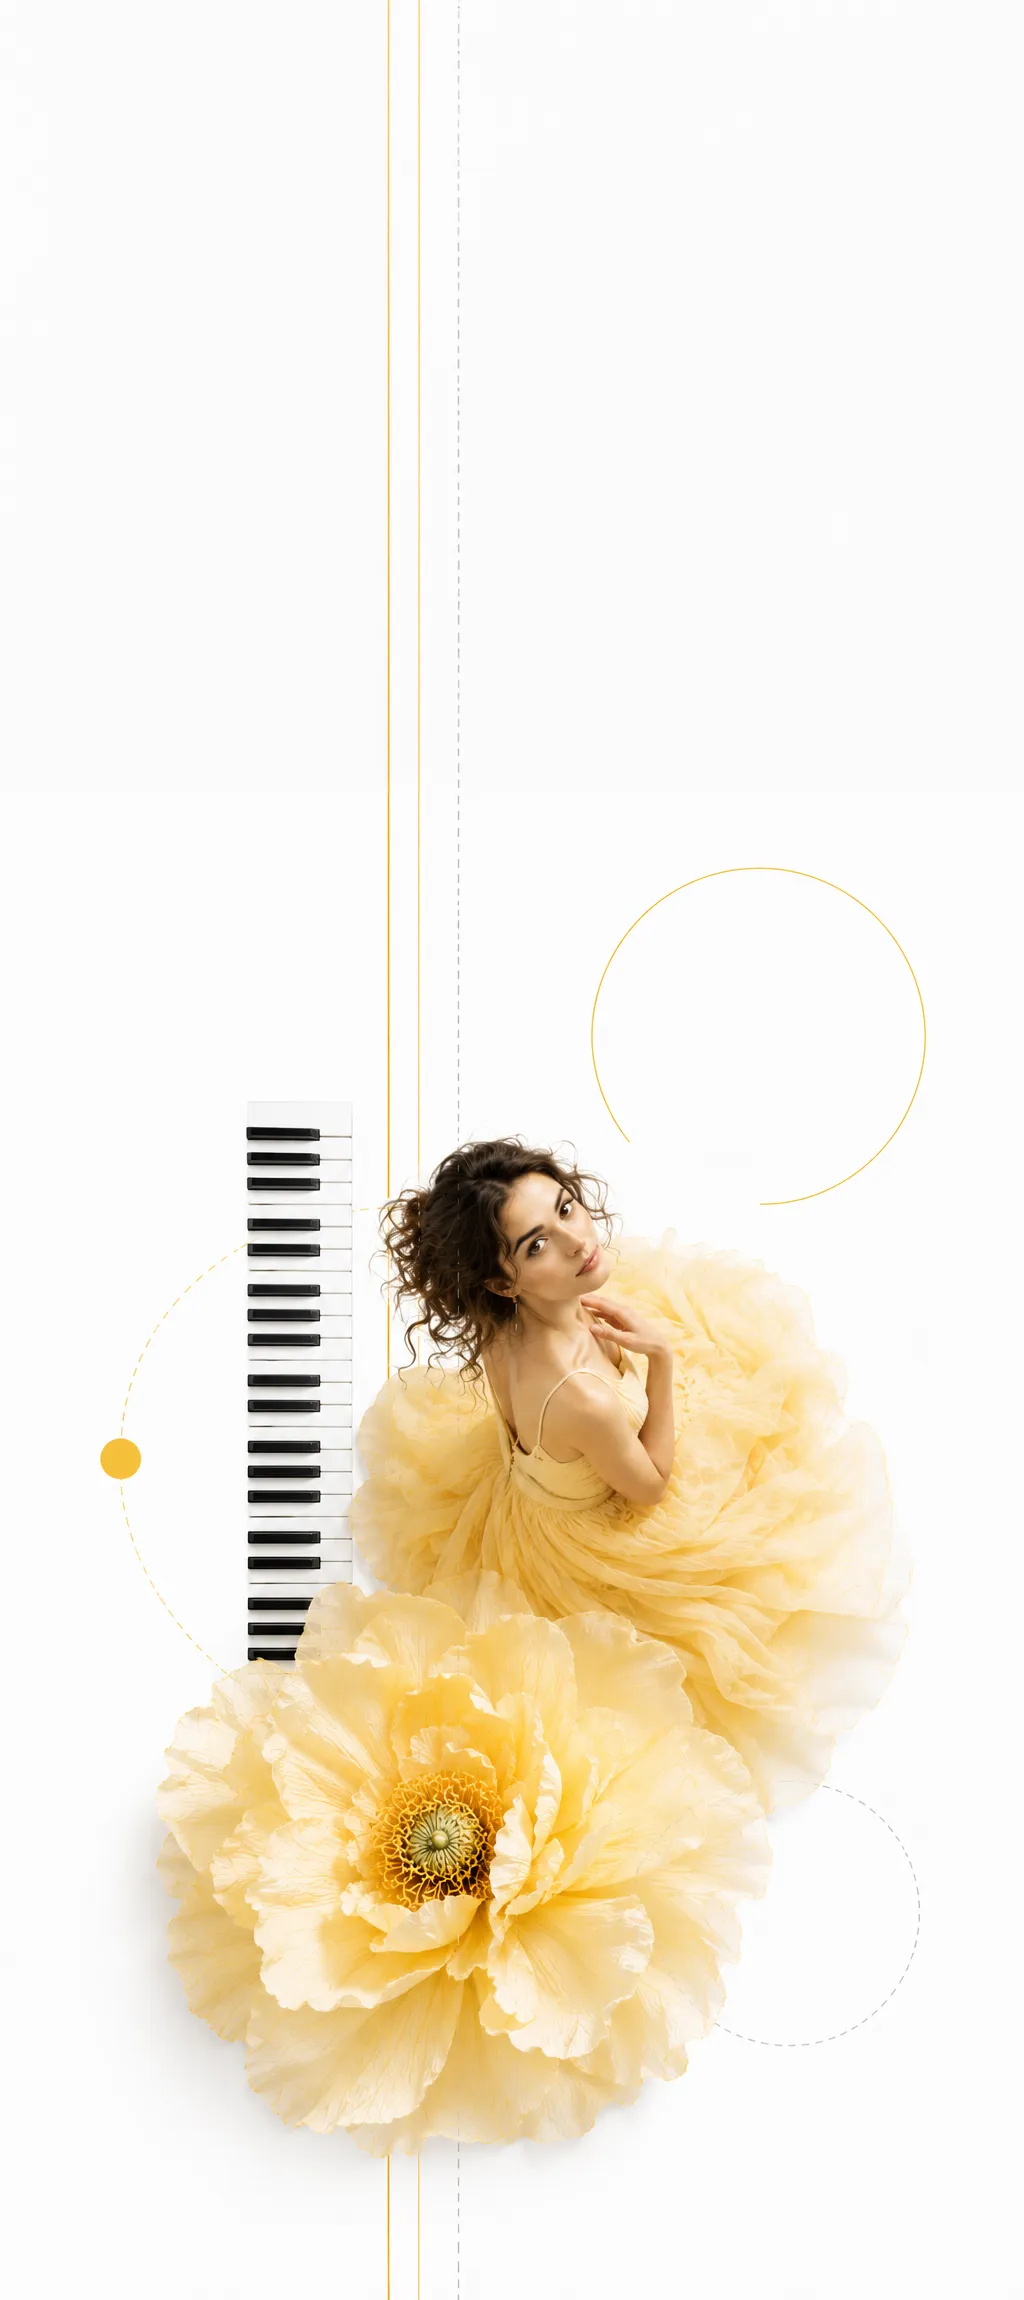
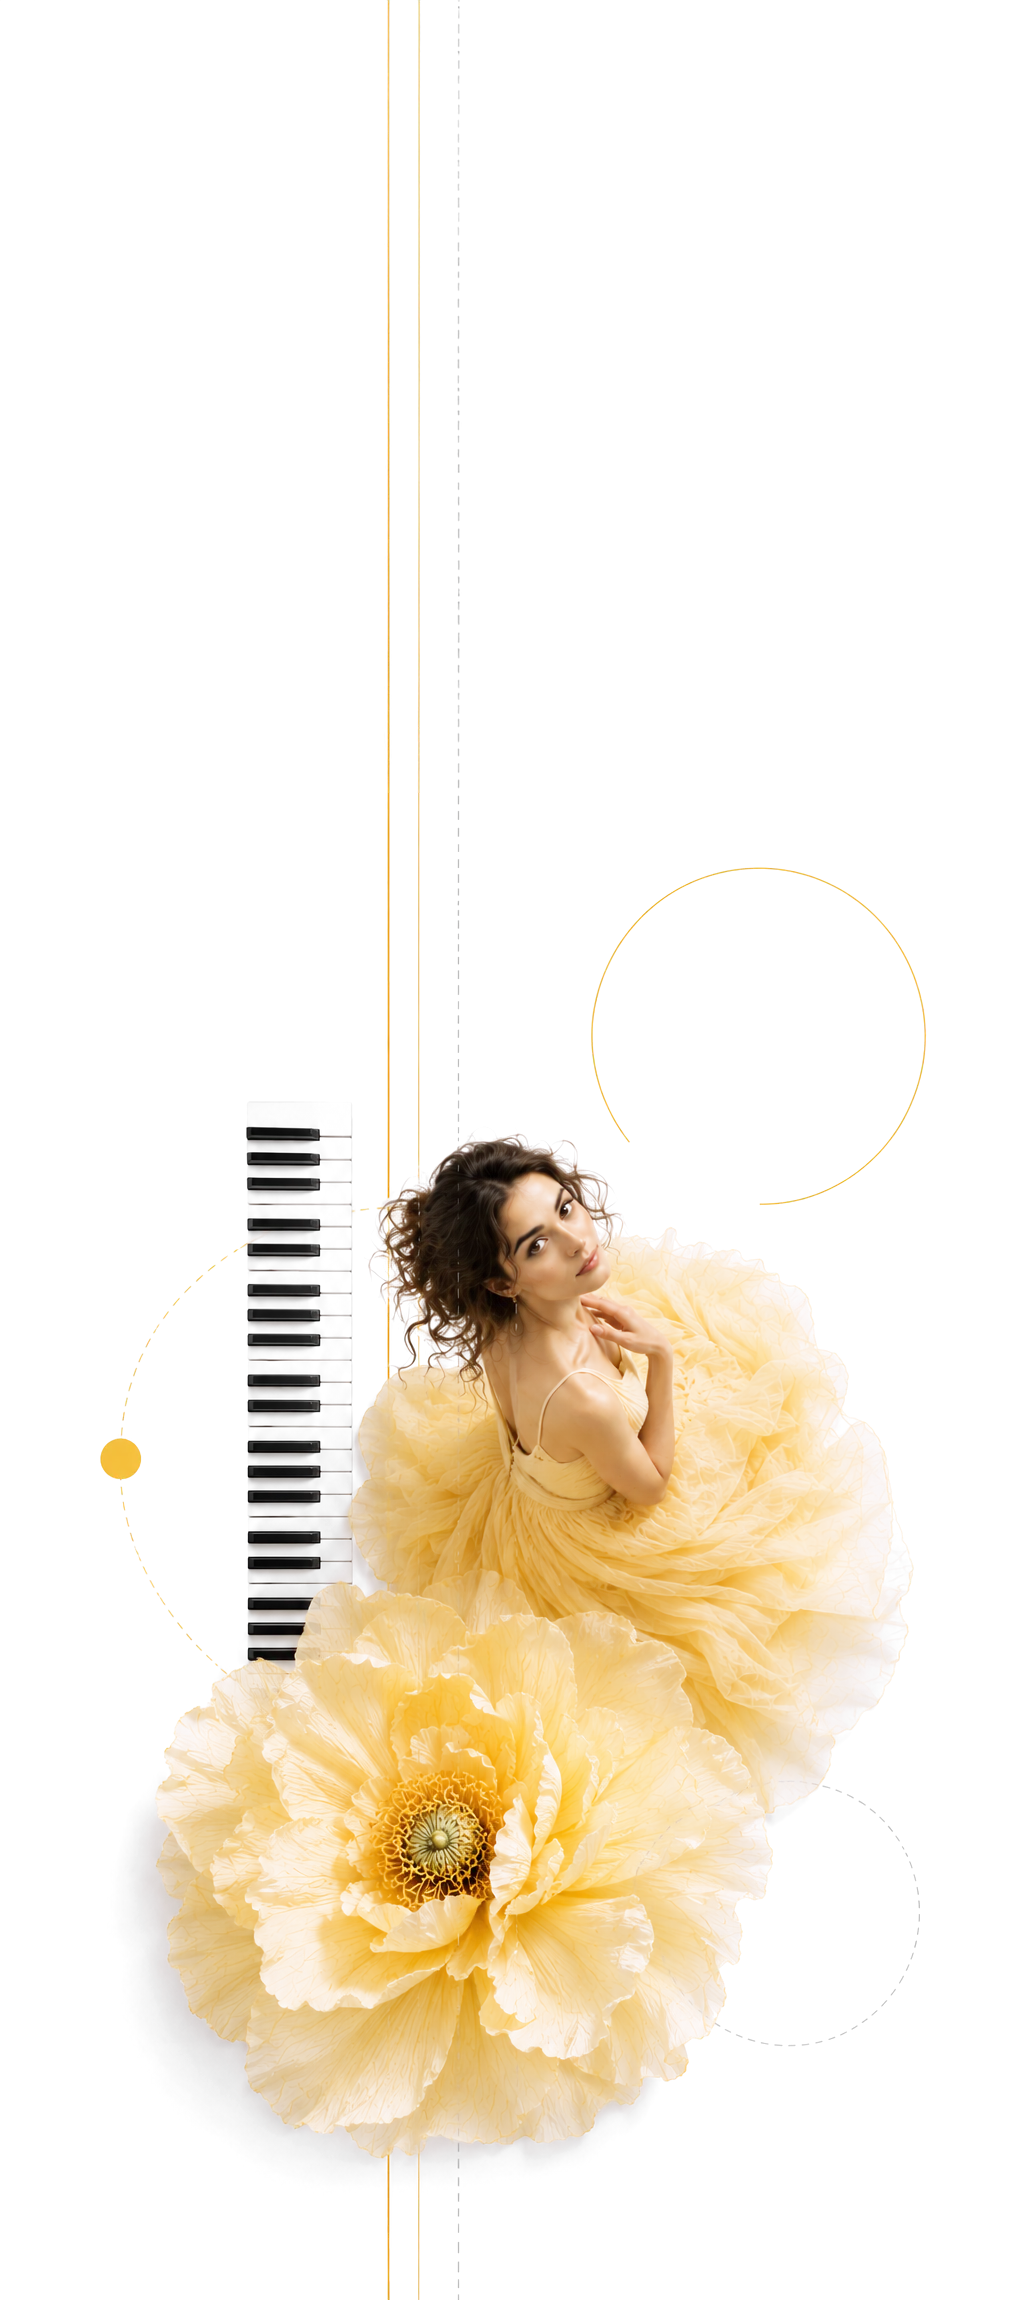
Square buttons, slimmer running score, transparent concert images blended into the page
Claude-Session: https://claude.ai/code/session_01NFy97beAv5LW8gohsA2YGd

Changed region(s): [[0.375, 0.3396, 0.4062, 0.4322], [0.375, 0.957, 0.4062, 1.0]]

diff --git a/src/styles.css b/src/styles.css
@@ -272,7 +272,7 @@ h1, h2, h3, h4,
   --c: var(--red);
   position: relative; display: block; text-decoration: none; aspect-ratio: 3 / 4; max-height: 74svh; justify-self: center; width: 100%; max-width: 440px;
 }
-.hero__next-media { position: absolute; inset: 0; overflow: hidden; border-radius: 999px 999px 0 0; background: #fff; }
+.hero__next-media { position: absolute; inset: 0; overflow: hidden; -webkit-mask-image: linear-gradient(to bottom, #000 70%, transparent 98%); mask-image: linear-gradient(to bottom, #000 70%, transparent 98%); }
 .hero__next-media img { width: 100%; height: 100%; object-fit: cover; object-position: center 20%; transform: scale(1.15); }
 .hero__next-badge {
   position: absolute; top: 8%; inset-inline-start: -8%; z-index: 2;
@@ -312,10 +312,10 @@ h1, h2, h3, h4,
 /* =========================================================
    MARQUEE
    ========================================================= */
-.score { margin: 0; position: relative; padding: clamp(28px, 4vw, 48px) 0 18px; border-block: 1px solid var(--line); background: var(--paper-2); overflow: hidden; direction: ltr; }
+.score { margin: 0; position: relative; padding: 14px 0 10px; border-block: 1px solid var(--line); background: var(--paper-2); overflow: hidden; direction: ltr; }
 .score__viewport { position: relative; overflow: hidden; -webkit-mask-image: linear-gradient(90deg, transparent, #000 8%, #000 92%, transparent); mask-image: linear-gradient(90deg, transparent, #000 8%, #000 92%, transparent); }
 .score__track { display: flex; width: max-content; will-change: transform; }
-.score__svg { height: clamp(150px, 18vw, 230px); width: auto; flex: none; overflow: visible; }
+.score__svg { height: clamp(64px, 6.5vw, 92px); width: auto; flex: none; overflow: visible; }
 .score__svg .sl { stroke: var(--ink); stroke-opacity: .35; stroke-width: 1; }
 .score__svg .ll, .score__svg .stem { stroke: var(--ink); stroke-width: 1.3; }
 .score__svg .bar { stroke: var(--ink); stroke-opacity: .55; stroke-width: 1.2; }
@@ -339,7 +339,7 @@ h1, h2, h3, h4,
 .score__playhead { position: absolute; top: 0; bottom: 0; left: 50%; width: 1px; background: var(--red); opacity: .7; }
 .score__playhead::before, .score__playhead::after { content: ''; position: absolute; left: -4px; width: 9px; height: 9px; border-radius: 50%; background: var(--red); }
 .score__playhead::before { top: -2px; } .score__playhead::after { bottom: -2px; }
-.score__caption { display: flex; justify-content: space-between; gap: 6px 20px; flex-wrap: wrap; padding: 14px var(--gutter) 0; font-size: .82rem; color: var(--muted); }
+.score__caption { display: flex; justify-content: space-between; gap: 4px 20px; flex-wrap: wrap; padding: 6px var(--gutter) 0; font-size: .72rem; color: var(--muted); }
 .score__caption span:last-child { direction: rtl; }
 .score__caption em { font-family: var(--f-serif); }
 
@@ -430,10 +430,10 @@ h1, h2, h3, h4,
   position: relative; display: grid; grid-template-columns: 1fr 1fr; gap: clamp(20px, 4vw, 60px); align-items: center;
 }
 .concert__media {
-  position: relative; aspect-ratio: 4 / 5; overflow: hidden; background: #fff; cursor: pointer;
+  position: relative; aspect-ratio: 4 / 5; overflow: hidden; cursor: pointer;
+  -webkit-mask-image: radial-gradient(ellipse 52% 52% at 50% 46%, #000 58%, transparent 100%); mask-image: radial-gradient(ellipse 52% 52% at 50% 46%, #000 58%, transparent 100%);
   border-radius: 2px;
 }
-.concert__media::after { content: ''; position: absolute; inset: 0; border: 1px solid var(--c); opacity: .5; pointer-events: none; }
 .concert__media img { width: 100%; height: 100%; object-fit: cover; object-position: center 30%; transform-origin: center; transition: transform 1.2s var(--ease); }
 .concert__media:hover img { transform: scale(1.05); }
 .concert__dot { position: absolute; width: 14px; height: 14px; border-radius: 50%; background: var(--c); top: 9%; inset-inline-start: 9%; z-index: 2; }
@@ -649,7 +649,6 @@ h1, h2, h3, h4,
 /* a11y modes */
 html.a11y-contrast { --paper: #fff; --paper-2: #fff; --ink: #000; --ink-2: #000; --muted: #222; --line: #000; --red: #a0001a; }
 html.a11y-contrast body::after { display: none; }
-html.a11y-contrast .concert__media::after { opacity: 1; }
 html.a11y-dark { --paper: #111; --paper-2: #1a1a1a; --ink: #f5f5f5; --ink-2: #eee; --muted: #c9c9c9; --line: rgba(255,255,255,.3); --red: #ff6b6b; color-scheme: dark; }
 html.a11y-dark body::after { display: none; }
 html.a11y-dark .subs { background: #1a1a1a; }
@@ -682,3 +681,9 @@ html.a11y-still .hero__strings { display: none; }
 .doc__body h2 { font-size: clamp(1.3rem, 2.4vw, 1.8rem); margin: 2.2em 0 .6em; font-weight: 800; }
 .doc__body ul { padding-inline-start: 1.2em; }
 .doc__body li { margin-bottom: .5em; }
+
+/* =========================================================
+   Square buttons everywhere
+   ========================================================= */
+button, .btn, .btn::before, .intro__btn, .sound-toggle, .burger, .socials a, .concert__past,
+.concert-dialog__close, .a11y-fab, .a11y-panel, .a11y-panel button, .skip-link { border-radius: 0 !important; }

diff --git a/src/main.js b/src/main.js
@@ -18,7 +18,7 @@ import { LOGO_PATH, LOGO_VIEWBOX } from './logo-path.js';
 import { createIntro } from './intro.js';
 import { createStrings } from './strings.js';
 import { createAudio } from './audio.js';
-import { renderScore } from './score.js';
+import { renderScore, COPIES } from './score.js';
 import { initA11y, applyStoredA11y } from './a11y.js';
 
 gsap.registerPlugin(ScrollTrigger);
@@ -295,7 +295,9 @@ function setupScroll() {
   // Running score — notes glide past a playhead; scrolling pushes the tempo
   const scoreTrack = $('#scoreTrack');
   const { width: scoreW } = renderScore(scoreTrack);
-  const notes = $$('.n', scoreTrack).map((el, i, all) => ({ el, x: Number(el.dataset.x) + (i >= all.length / 2 ? scoreW : 0), lit: false }));
+  const allNotes = $$('.n', scoreTrack);
+  const perCopy = allNotes.length / COPIES;
+  const notes = allNotes.map((el, i) => ({ el, x: Number(el.dataset.x) + Math.floor(i / perCopy) * scoreW, lit: false }));
   const viewport = $('.score__viewport');
   let offset = 0, boost = 0, scoreVisible = false;
   new IntersectionObserver(([e]) => (scoreVisible = e.isIntersecting)).observe(viewport);

diff --git a/src/score.js b/src/score.js
@@ -108,10 +108,12 @@ function system(offsetBars = 0) {
   return { svg: s, width };
 }
 
+export const COPIES = 6;
+
 export function renderScore(container) {
   const a = system(0);
   const H = 285;
   const one = `<svg class="score__svg" viewBox="0 -10 ${a.width} ${H}" width="${a.width}" height="${H}" aria-hidden="true" focusable="false">${a.svg}</svg>`;
-  container.innerHTML = one + one; // duplicated for a seamless loop
+  container.innerHTML = one.repeat(COPIES); // repeated so the strip always fills the screen
   return { width: a.width };
 }

diff --git a/scripts/make-transparent.py b/scripts/make-transparent.py
@@ -1,0 +1,35 @@
+"""Turn the white backgrounds of the concert visuals into real transparency
+(colour-to-alpha against white), so the images melt into the site's paper background.
+Run after `npm run assets`:  python3 scripts/make-transparent.py"""
+import numpy as np
+from PIL import Image
+
+I = 'images/'
+JOBS = {
+    'love-hero': I + 'ככה נשמעת אהבה/ChatGPT Image Jul 30, 2026 at 12_31_55 PM.png',
+    'ravel-hero': I + 'שירים של ראוול/ChatGPT Image Jul 30, 2026 at 01_38_30 PM.png',
+    'light-hero': I + 'עם אור ראשון/ChatGPT Image Aug 2, 2026 at 05_25_58 PM.png',
+    'mosaic-hero': I + 'פסיפס/ChatGPT Image Aug 2, 2026 at 05_04_32 PM.png',
+    'cave-hero': I + 'המערה/ChatGPT Image Aug 4, 2026 at 04_28_57 PM.png',
+    'paint-hero': I + 'ציור בצלילים/ChatGPT Image Aug 4, 2026 at 04_46_10 PM.png',
+}
+
+def white_to_alpha(im):
+    a = np.asarray(im.convert('RGB')).astype(np.float32) / 255.0
+    alpha = (1.0 - a).max(axis=2)
+    alpha = np.clip((alpha - 0.025) / 0.975, 0, 1)          # clean off near-white noise
+    safe = np.maximum(alpha, 1e-4)[..., None]
+    rgb = 1.0 - (1.0 - a) / safe                              # un-premultiply against white
+    rgb = np.clip(rgb, 0, 1)
+    out = np.dstack([rgb, alpha[..., None]]) * 255
+    return Image.fromarray(out.astype(np.uint8), 'RGBA')
+
+import sys
+only = sys.argv[1:]
+for name, src in JOBS.items():
+    if only and name not in only: continue
+    im = white_to_alpha(Image.open(src))
+    for w in (700, 1400):
+        ww = min(w, im.width)
+        im.resize((ww, round(im.height * ww / im.width)), Image.LANCZOS).save(f'public/media/{name}-{w}.webp', quality=82, method=6)
+    print('ok', name)
